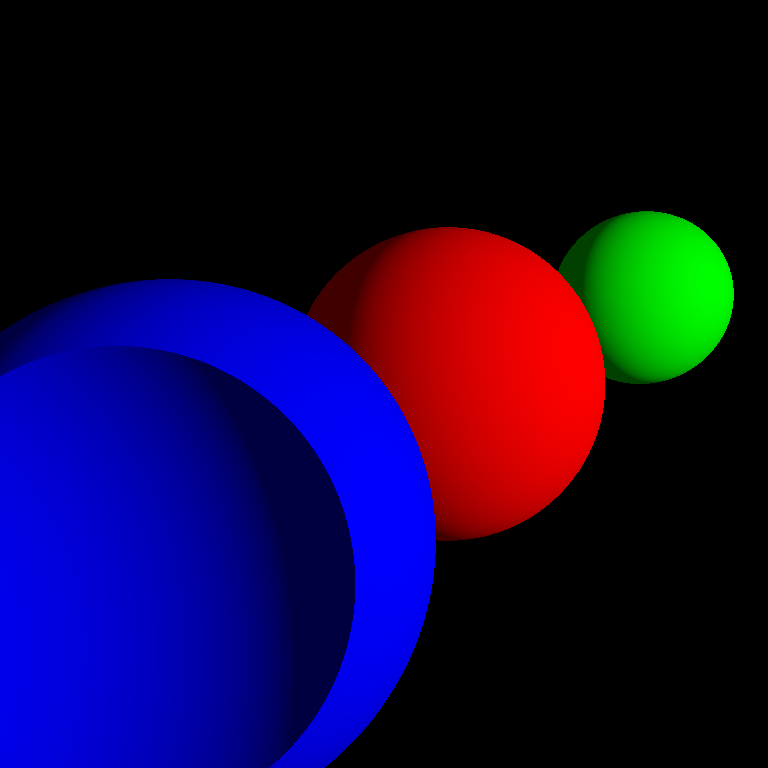
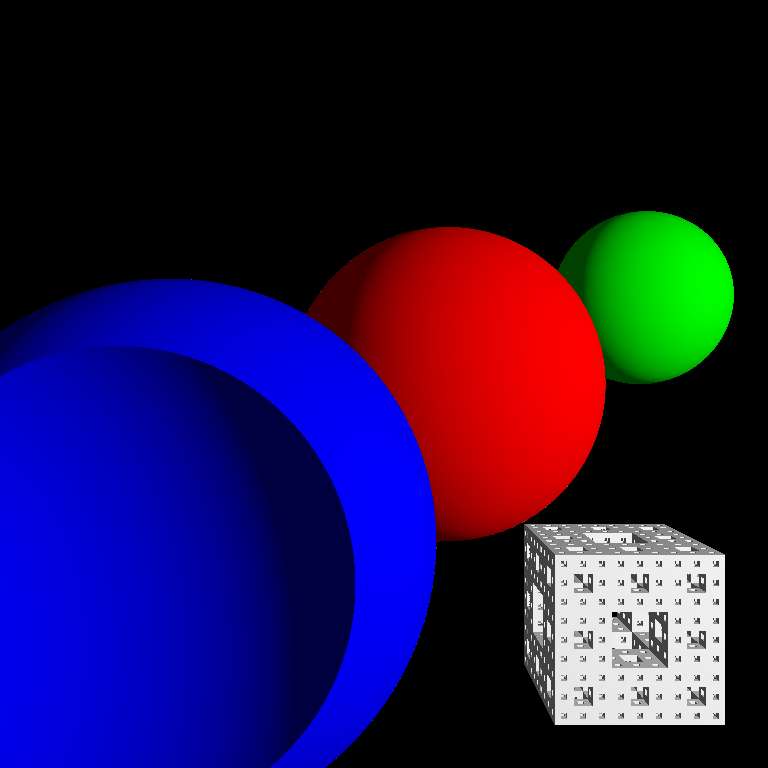
Menger Sponge
Added: Menger Sponge body
Added: Box and Cross bodies
Added: Empty body
Added: Body complement function
Added: Constants iterations namespace
Added: Menger Sponge iterations constant

Changed region(s): [[0.6562, 0.6562, 0.9688, 0.9688]]

diff --git a/source/body.cpp b/source/body.cpp
@@ -16,25 +16,138 @@ namespace Body {
         return std::numeric_limits<float>::infinity();
     }
 
+    float Base::complement(float distance) {
+        if (this->mode == Mode::COMPLEMENT)
+            return -distance;
+        return distance;
+    }
+
     /// Sphere ///
     Sphere::Sphere(float3 position, float radius, float3 color, Mode mode) :
         Base(Type::SPHERE, mode, color), position(position), radius(radius) {}
 
     float Sphere::SDF(float3 position) {
         float distance = length(this->position - position) - this->radius;
-        if (this->mode == Mode::COMPLEMENT)
-            distance = -distance;
-        return distance;
+        return this->complement(distance);
     }
 
     /// Box ///
     Box::Box(float3 position, float3 size, float3 color, Mode mode) :
         Base(Type::BOX, mode, color), position(position), size(size) {}
 
-    // TODO: implement Box SDF
     float Box::SDF(float3 position) {
-        //float3 distances = abs(position - box->position) - box->size / 2;
+        float3 distances = abs(position - this->position) - this->size / 2;
+        float distance = max(max(distances.x, distances.y), distances.z);
+        return this->complement(distance);
+    }
+
+    /// Cross ///
+    Cross::Cross(float3 position, float3 size, float3 color, Mode mode) :
+        Base(Type::CROSS, mode, color), position(position), size(size) {}
+
+    float Cross::SDF(float3 position) {
+        float3 distances = abs(position - this->position) - this->size / 2;
+        float dmin = min(min(distances.x, distances.y), distances.z);
+        float dmax = max(max(distances.x, distances.y), distances.z);
+        float distance = distances.x + distances.y + distances.z - dmin - dmax;
+        return this->complement(distance);
+    }
+
+    /// Empty ///
+    Empty::Empty() : Base(Type::EMPTY, Mode::DEFAULT, float3(0.0f)) {}
+
+    float Empty::SDF(float3 position) {
         return std::numeric_limits<float>::infinity();
+    }
+
+    /// Menger Sponge ///
+    MengerSponge::MengerSponge(float3 position, float size, int iterations,
+                               float3 color, Mode mode) :
+        Base(Type::MENGER_SPONGE, mode, color),
+        position(position), size(size), iterations(iterations) {
+
+        Box *box = new Box(position, float3(size), color, mode);
+        Compound *diff = this->generate(position, size, iterations);
+        this->body = new Compound(box, diff, color, Mode::DIFFERENCE);
+    }
+
+    float MengerSponge::SDF(float3 position) {
+        return this->body->SDF(position);
+    }
+
+    Compound* MengerSponge::generate(float3 position, float size, int iterations) {
+        float d = size / 3;
+        Cross *cross = new Cross(position, float3(d), this->color, this->mode);
+        Empty *empty = new Empty();
+        Compound *result = new Compound(cross, empty, this->color, this->mode);
+        if (iterations >= 2) {
+            Compound *recursive;
+
+            // Front
+            recursive = this->generate(position + float3(d, -d, -d), d, iterations - 1);
+            result = new Compound(result, recursive, this->color, this->mode);
+
+            recursive = this->generate(position + float3(0, -d, -d), d, iterations - 1);
+            result = new Compound(result, recursive, this->color, this->mode);
+
+            recursive = this->generate(position + float3(-d, -d, -d), d, iterations - 1);
+            result = new Compound(result, recursive, this->color, this->mode);
+
+            recursive = this->generate(position + float3(d, d, -d), d, iterations - 1);
+            result = new Compound(result, recursive, this->color, this->mode);
+
+            recursive = this->generate(position + float3(0, d, -d), d, iterations - 1);
+            result = new Compound(result, recursive, this->color, this->mode);
+
+            recursive = this->generate(position + float3(-d, d, -d), d, iterations - 1);
+            result = new Compound(result, recursive, this->color, this->mode);
+
+            recursive = this->generate(position + float3(-d, 0, -d), d, iterations - 1);
+            result = new Compound(result, recursive, this->color, this->mode);
+
+            recursive = this->generate(position + float3(d, 0, -d), d, iterations - 1);
+            result = new Compound(result, recursive, this->color, this->mode);
+
+            // Back
+            recursive = this->generate(position + float3(d, -d, d), d, iterations - 1);
+            result = new Compound(result, recursive, this->color, this->mode);
+
+            recursive = this->generate(position + float3(0, -d, d), d, iterations - 1);
+            result = new Compound(result, recursive, this->color, this->mode);
+
+            recursive = this->generate(position + float3(-d, -d, d), d, iterations - 1);
+            result = new Compound(result, recursive, this->color, this->mode);
+
+            recursive = this->generate(position + float3(d, d, d), d, iterations - 1);
+            result = new Compound(result, recursive, this->color, this->mode);
+
+            recursive = this->generate(position + float3(0, d, d), d, iterations - 1);
+            result = new Compound(result, recursive, this->color, this->mode);
+
+            recursive = this->generate(position + float3(-d, d, d), d, iterations - 1);
+            result = new Compound(result, recursive, this->color, this->mode);
+
+            recursive = this->generate(position + float3(-d, 0, d), d, iterations - 1);
+            result = new Compound(result, recursive, this->color, this->mode);
+
+            recursive = this->generate(position + float3(d, 0, d), d, iterations - 1);
+            result = new Compound(result, recursive, this->color, this->mode);
+
+            // Middle
+            recursive = this->generate(position + float3(-d, -d, 0), d, iterations - 1);
+            result = new Compound(result, recursive, this->color, this->mode);
+
+            recursive = this->generate(position + float3(d, -d, 0), d, iterations - 1);
+            result = new Compound(result, recursive, this->color, this->mode);
+
+            recursive = this->generate(position + float3(-d, d, 0), d, iterations - 1);
+            result = new Compound(result, recursive, this->color, this->mode);
+
+            recursive = this->generate(position + float3(d, d, 0), d, iterations - 1);
+            result = new Compound(result, recursive, this->color, this->mode);
+        }
+
+        return result;
     }
 
     /// Compound ///

diff --git a/source/include/body.h b/source/include/body.h
@@ -9,6 +9,9 @@ namespace Body {
     enum class Type {
         SPHERE,
         BOX,
+        CROSS,
+        EMPTY,
+        MENGER_SPONGE,
         COMPOUND,
     };
 
@@ -28,6 +31,7 @@ namespace Body {
              Mode mode = Mode::DEFAULT,
              float3 color = float3(1.0f));
         virtual float SDF(float3 position);
+        float complement(float distance);
     };
 
     struct Sphere : Base {
@@ -50,6 +54,21 @@ namespace Body {
         float SDF(float3 position);
     };
 
+    struct Cross: Base {
+        float3 position;
+        float3 size;
+        Cross(float3 position,
+              float3 size,
+              float3 color = float3(1.0f),
+              Mode mode = Mode::DEFAULT);
+        float SDF(float3 position);
+    };
+
+    struct Empty : Base {
+        Empty();
+        float SDF(float3 position);
+    };
+
     struct Compound : Base {
         Mode mode;
         Base *first;
@@ -59,5 +78,19 @@ namespace Body {
                  float3 color = float3(1.0f),
                  Mode mode = Mode::UNION);
         float SDF(float3 position);
+    };
+
+    struct MengerSponge: Base {
+        float3 position;
+        float size;
+        int iterations;
+        Compound *body;
+        MengerSponge(float3 position,
+                     float size,
+                     int iterations = 3,
+                     float3 color = float3(1.0f),
+                     Mode mode = Mode::DEFAULT);
+        float SDF(float3 position);
+        Compound* generate(float3 position, float size, int iterations);
     };
 }

diff --git a/source/main.cpp b/source/main.cpp
@@ -66,7 +66,7 @@ float4 raymarch(float3 ray) {
     float3 position(0.0f);
     Body::Base *obj;
     bool hit = true;
-    for (int _ = 0; _ < constants::iterations; _++) {
+    for (int _ = 0; _ < constants::iterations::raymarch; _++) {
         float distance = SDF(position, &obj);
         position += distance * ray;
         hit = inside(position);
@@ -89,7 +89,7 @@ int main() {
     Image2D<float4> image(width, height);
 
     /// Init scene objects ///
-    Body::Box *bounds = new Body::Box ( float3(0.0f), float3(100.0f) );
+    Body::Box *bounds = new Body::Box ( float3(0.0f), float3(200.0f) );
     scene::boundsID = scene::objects.add(bounds);
 
     Object::Light *light = new Object::Light ( float3(50.0f, 10.0f, -20.0f) );
@@ -113,6 +113,12 @@ int main() {
     // Green
     sphere = new Body::Sphere ( float3(15.0f, 5.0f, 45.0f), 5.0f, float3(0.0f, 1.0f, 0.0f) );
     ID = scene::objects.add(sphere);
+    scene::bodyIDs.push_back(ID);
+
+    // Menger Sponge //
+    Body::MengerSponge *mengerSponge = new Body::MengerSponge( float3(15.0f, -15.0f, 50.0f), 10.0f,
+           constants::iterations::mengerSponge );
+    ID = scene::objects.add(mengerSponge);
     scene::bodyIDs.push_back(ID);
 
     /// Render scene objects ///

diff --git a/source/include/constants.h b/source/include/constants.h
@@ -5,7 +5,10 @@
 using namespace LiteMath;
 
 namespace constants {
-    const int iterations    = 1000;     // raymarcing iterations
+    namespace iterations {
+        const int raymarch        = 100;    // raymarcing iterations
+        const int mengerSponge    = 3;      // menger sponge depth iterations
+    }
     const float saturation  = 0.05f;    // lighting saturation
     const int capacity      = 1 << 10;  // Container::Array capacity
     const float precision   = 1e-3f;    // Object hit precision
